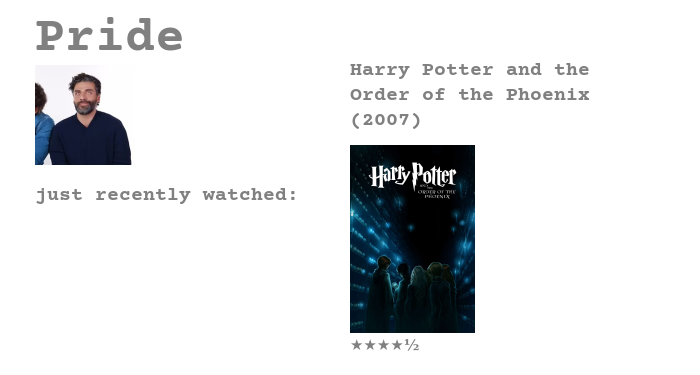
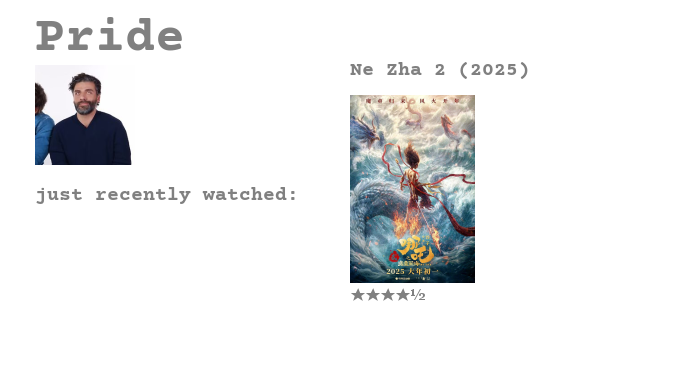
html changes to titles

Changed region(s): [[0.48, 0.2347, 0.84, 0.9387], [0.51, 0.1467, 0.84, 0.2053]]

diff --git a/index.js b/index.js
@@ -49,7 +49,7 @@ const diary = getRenderedDiary().then((res) => {
     const username = result.match(/<img src=".*?avatar.*?".*?>/g)[0].match(/(?<=alt=")(.*?)(?=")/g)[0];
     const pfp = result.match(/(?<=<img src=")(.*?)(?=")/g).filter((avatar) => avatar.includes('avatar'))[0].replace('0-48-0-48', '0-220-0-220');
 
-    const titles = validateTitles(result.match(/(?<=data-film-name=")(.*?)(?=")/g));
+    const titles = validateTitles(result.match(/(?<=<h2 class="name -primary prettify"><a href=")(.*?)(?=<\/a>)/g).map((title) => title.substring(title.indexOf('>') + 1)));
     const years = result.match(/(?<=<td class="col-releaseyear _aligncenter"><span>)(.*?)(?=<\/span>)/g);
     // const ratings = result.match(/(?<=<td class="td-rating rating-green">)(.*?)(?=<\/span>)/g).map((rating) => rating.replace(rating.substring(0, rating.indexOf(' ')), '').replace(' ', ''));
     const ratings = result.match(/(?<=<td class="col-rating _paddinginlinelg">)(.*?)(?=<\/span>)/g);
